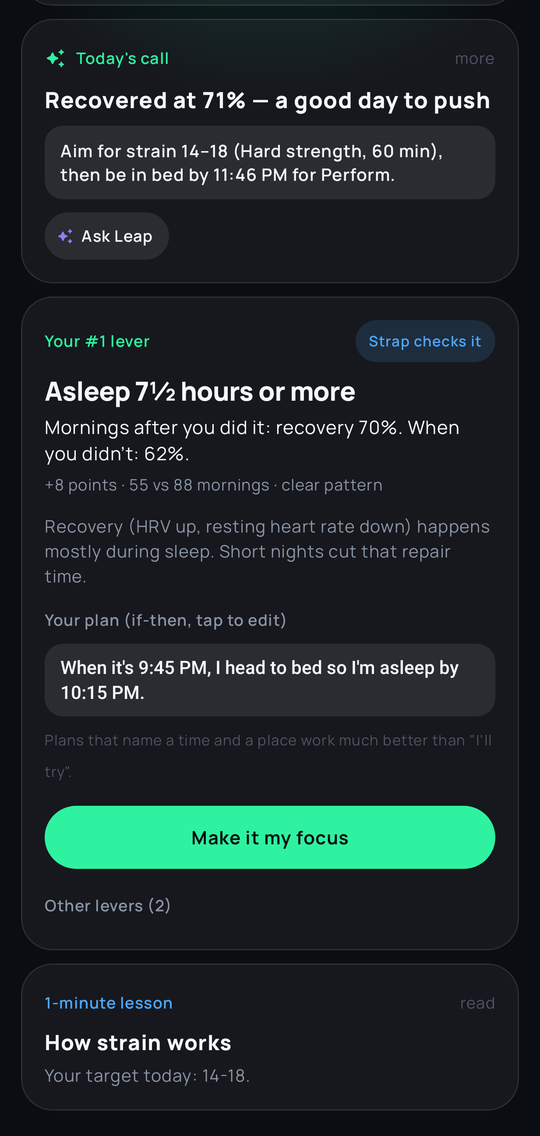
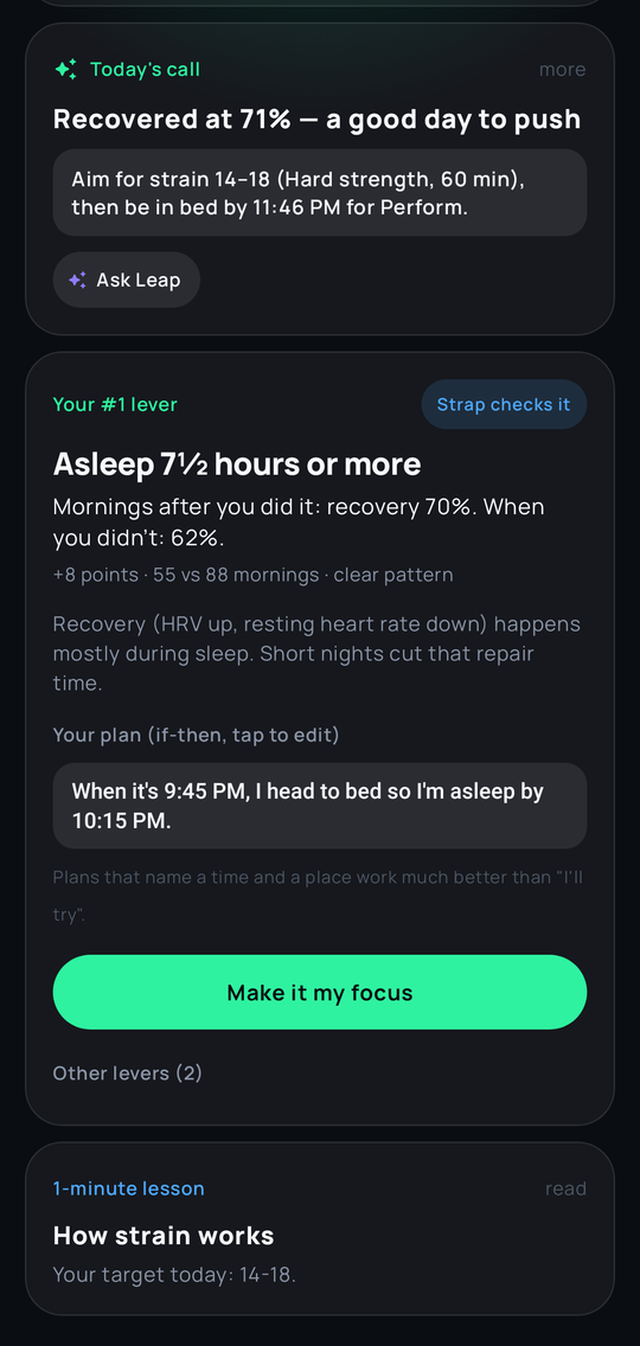
Lead with the accuracy test, and show what Leap does that trackers don't
The old gallery was rings, trends and a calendar, which is what every recovery
app looks like. Someone deciding in five seconds had nothing to go on.

Now the first thing on the page is the held-out test: 5.97 recovery points of
average error against Whoop's own score, 87% of days in the same zone, against
15.73 for the obvious baseline of guessing your 30-day average. 666 days of real
Whoop data, 640 trained on, the rest never seen by the fit. Every number is read
off the test run, not rounded for effect.

The screens below it now lead with the things no other app has: your #1 lever
with the recovery difference on mornings you did it, patterns, the evening
read, calm mode and the tomorrow forecast.

🤖 Generated with [Claude Code](https://claude.com/claude-code)

diff --git a/README.md b/README.md
@@ -24,18 +24,22 @@ Then it helps you **change one habit at a time**: it finds the habit that moves 
 No account. No subscription. No cloud. Leap reads your data on your phone and keeps it there.
 
 <p align="center">
-  <img src="docs/screens/today.png" width="24%" alt="Today">
+  <img src="docs/screens/accuracy.png" width="100%" alt="Tested on months the model never saw: average error 5.97 recovery points, 87% same zone">
+</p>
+
+<p align="center">
   <img src="docs/screens/focus_lever.png" width="24%" alt="Your #1 lever">
-  <img src="docs/screens/focus_active.png" width="24%" alt="Focus habit">
-  <img src="docs/screens/live_now.png" width="24%" alt="Live heart rate">
+  <img src="docs/screens/today_focus_morning.png" width="24%" alt="Today">
+  <img src="docs/screens/patterns_ai.png" width="24%" alt="Patterns">
+  <img src="docs/screens/evening.png" width="24%" alt="Evening">
 </p>
 <p align="center">
+  <img src="docs/screens/live_now.png" width="24%" alt="Live heart rate">
   <img src="docs/screens/today_calm.png" width="24%" alt="Calm mode">
-  <img src="docs/screens/calendar_black.png" width="24%" alt="Calendar">
-  <img src="docs/screens/trends.png" width="24%" alt="Trends">
+  <img src="docs/screens/forecast.png" width="24%" alt="Tomorrow forecast">
   <img src="docs/screens/space_white.png" width="24%" alt="Space white theme">
 </p>
-<p align="center"><sub>Screens show made-up demo data.</sub></p>
+<p align="center"><sub>Screens show made-up demo data. The accuracy figures come from one real Whoop export.</sub></p>
 
 ## Features
 
